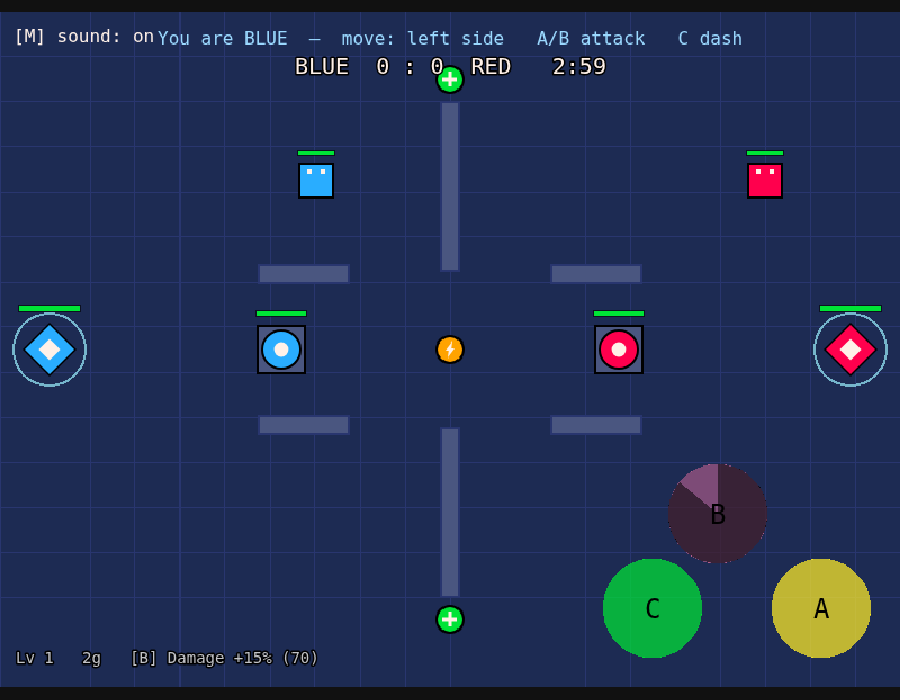
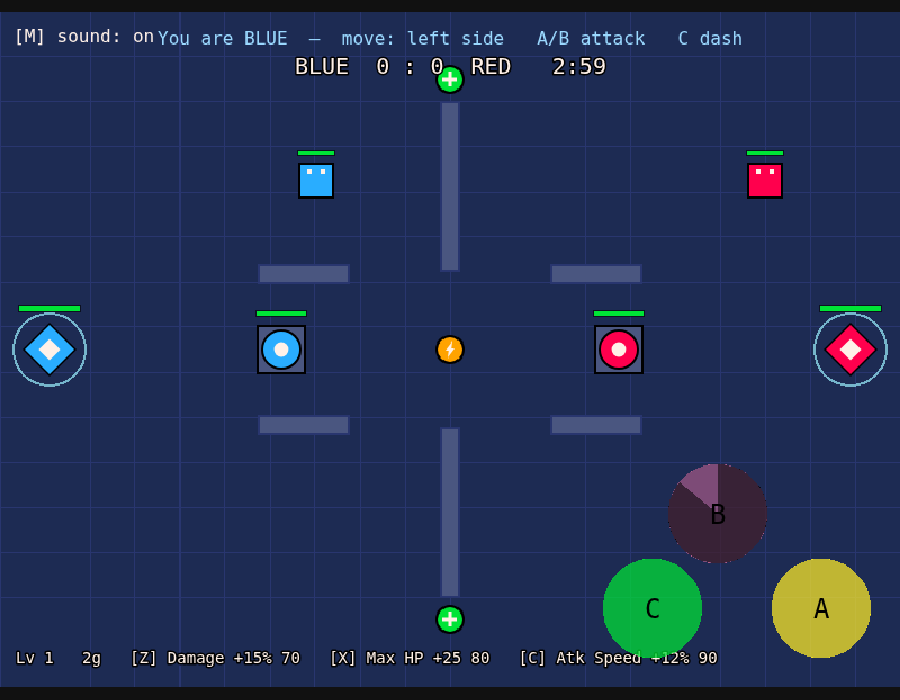
Shop with item choice + a new Attack Speed upgrade
The shop is now a real choice instead of a fixed cycle. Three items — Damage,
Max HP, and a new Attack Speed (cooldown reduction) — each on its own key
(Z/X/C), shown together in the bottom-left HUD; B still buys the next one for
convenience, and bots still auto-buy.

Server: tryBuy(player, itemId) buys a specific item (or the next when omitted);
a new bonusCdr stacks into effectiveCdMult, which scales the attack cooldown set
in tryAttack (floored at 0.4 so it stays sane). Shop grows to 3 items, cap 6.
NetClient.sendBuy(itemId) carries the choice.

Client: Z/X/C keys buy the matching item; updateShopHud lists all three with
keys + costs, or "upgrades maxed".

m27.progress gains buy-by-id and attack-speed checks (cdr applied, cooldown
shortened in a fired attack); m27.progress.render updated for the new HUD. The
legacy no-id cycle path still works (bots + the B key), so the rest of the suite
is unchanged. 42/42 test groups pass; live two-browser test passes; build OK.
README updated.

https://claude.ai/code/session_01MAXKRUpJFcKFAvV2b8xTXo

Changed region(s): [[0.1556, 0.93, 0.8089, 0.96], [0.0933, 0.93, 0.1244, 0.96], [0.0311, 0.93, 0.0622, 0.96]]

diff --git a/src/net/GameServer.js b/src/net/GameServer.js
@@ -267,6 +267,7 @@ export default class GameServer {
       buys: 0, // shop upgrades purchased
       bonusHp: 0, // from shop "Max HP" buys
       bonusDmg: 0, // from shop "Damage" buys (a multiplier addend)
+      bonusCdr: 0, // from shop "Atk Speed" buys (cooldown reduction)
     };
   }
 
@@ -285,6 +286,12 @@ export default class GameServer {
     return 1 + (this.levelOf(p) - 1) * PROGRESS.dmgPerLevel + p.bonusDmg;
   }
 
+  // A hero's cooldown multiplier from "Atk Speed" buys (floored so it can't go
+  // silly). 1 = normal; lower = faster attacks.
+  effectiveCdMult(p) {
+    return Math.max(0.4, 1 - p.bonusCdr);
+  }
+
   // Pay a hero for a last hit (minion | hero | tower).
   awardKill(player, kind) {
     const r = PROGRESS.reward[kind];
@@ -293,15 +300,20 @@ export default class GameServer {
     player.gold += r.gold;
   }
 
-  // Spend gold on the next shop upgrade (cycles through the list, capped).
-  tryBuy(player) {
+  // Spend gold on a shop upgrade. With `itemId`, buy that specific item;
+  // without one, buy the next in the list (the legacy "B" cycle, also used by
+  // bots). Capped at shopMaxStacks total.
+  tryBuy(player, itemId) {
     if (this.phase !== "playing") return;
     if (player.buys >= PROGRESS.shopMaxStacks) return;
-    const item = PROGRESS.shop[player.buys % PROGRESS.shop.length];
-    if (player.gold < item.cost) return;
+    const item = itemId
+      ? PROGRESS.shop.find((s) => s.id === itemId)
+      : PROGRESS.shop[player.buys % PROGRESS.shop.length];
+    if (!item || player.gold < item.cost) return;
     player.gold -= item.cost;
     player.bonusHp += item.hp || 0;
     player.bonusDmg += item.dmg || 0;
+    player.bonusCdr += item.cdr || 0;
     player.buys++;
   }
 
@@ -327,7 +339,7 @@ export default class GameServer {
     } else if (msg.t === "class") {
       this.setClass(p, msg.cls);
     } else if (msg.t === "buy") {
-      this.tryBuy(p);
+      this.tryBuy(p, msg.itemId);
     }
   }
 
@@ -364,7 +376,7 @@ export default class GameServer {
     if (this.phase !== "playing" || !player.alive) return;
     const spec = CLASSES[player.cls][kind]; // per-class attack stats
     if (this.timeMs < player.cd[kind]) return; // cooling down
-    player.cd[kind] = this.timeMs + spec.cd;
+    player.cd[kind] = this.timeMs + spec.cd * this.effectiveCdMult(player);
 
     // Aim at the nearest enemy target (a living enemy player OR the enemy base).
     const target = this.nearestTarget(player) || {

diff --git a/src/scenes/ArenaScene.js b/src/scenes/ArenaScene.js
@@ -218,8 +218,14 @@ export default class ArenaScene extends Phaser.Scene {
       });
     });
 
-    // B buys the next shop upgrade with gold.
+    // Z/X/C buy a specific shop upgrade; B buys the next one in the list.
     this.input.keyboard.on("keydown-B", () => this.net.sendBuy());
+    ["Z", "X", "C"].forEach((k, i) => {
+      this.input.keyboard.on(`keydown-${k}`, () => {
+        const item = PROGRESS.shop[i];
+        if (item) this.net.sendBuy(item.id);
+      });
+    });
 
     // Level / gold / shop line, bottom-left (clear of the action buttons).
     this.shopText = this.add
@@ -460,23 +466,28 @@ export default class ArenaScene extends Phaser.Scene {
     return `${Math.floor(sec / 60)}:${String(sec % 60).padStart(2, "0")}`;
   }
 
-  // Bottom-left progression line for the local hero: level, gold, and the next
-  // shop upgrade you can buy with B (brightened when you can afford it).
+  // Bottom-left progression line for the local hero: level, gold, and the shop
+  // (each item on its own key — Z/X/C), or "maxed" once fully upgraded.
   updateShopHud() {
+    const keys = ["Z", "X", "C"];
     const me = this.net.players.find((p) => p.id === this.net.localId);
     if (!me) {
       this.shopText.setText("");
       return;
     }
-    const buys = me.buys || 0;
     let line = `Lv ${me.level || 1}   ${me.gold || 0}g`;
-    let color = "#fff1e8";
-    if (this.net.phase === "playing" && buys < PROGRESS.shopMaxStacks) {
-      const item = PROGRESS.shop[buys % PROGRESS.shop.length];
-      line += `   [B] ${item.name} (${item.cost})`;
-      color = (me.gold || 0) >= item.cost ? "#ffec27" : "#c2c3c7";
+    if (this.net.phase === "playing") {
+      if ((me.buys || 0) >= PROGRESS.shopMaxStacks) {
+        line += "   upgrades maxed";
+      } else {
+        const shop = PROGRESS.shop
+          .slice(0, keys.length)
+          .map((it, i) => `[${keys[i]}] ${it.name} ${it.cost}`)
+          .join("   ");
+        line += `   ${shop}`;
+      }
     }
-    this.shopText.setText(line).setColor(color);
+    this.shopText.setText(line).setColor("#fff1e8");
   }
 
   // The corner kill feed: most recent knockouts on top, colored by the team

diff --git a/src/config.js b/src/config.js
@@ -203,13 +203,16 @@ export const PROGRESS = {
     hero: { xp: 65, gold: 50 },
     tower: { xp: 80, gold: 60 },
   },
-  // The shop: cycle through these with gold (press B). Bonuses are permanent
-  // and stack up to `shopMaxStacks` total buys.
+  // The shop: buy any of these with gold (keys Z / X / C, or B for the next
+  // one). Bonuses are permanent and stack up to `shopMaxStacks` total buys.
+  // `dmg` adds to the damage multiplier, `hp` to max HP, `cdr` cuts attack
+  // cooldowns (faster attacks).
   shop: [
     { id: "dmg", name: "Damage +15%", cost: 70, dmg: 0.15 },
     { id: "hp", name: "Max HP +25", cost: 80, hp: 25 },
+    { id: "atk", name: "Atk Speed +12%", cost: 90, cdr: 0.12 },
   ],
-  shopMaxStacks: 4,
+  shopMaxStacks: 6,
 };
 
 // --- Kill feed --------------------------------------------------------------

diff --git a/src/net/NetClient.js b/src/net/NetClient.js
@@ -63,9 +63,10 @@ export default class NetClient {
     this.conn.send({ t: "class", cls });
   }
 
-  // Spend gold on the next shop upgrade.
-  sendBuy() {
-    this.conn.send({ t: "buy" });
+  // Spend gold on a shop upgrade. Pass an item id to buy that one; omit it to
+  // buy the next in the list.
+  sendBuy(itemId) {
+    this.conn.send({ t: "buy", itemId });
   }
 
   on(event, cb) {

diff --git a/README.md b/README.md
@@ -71,7 +71,7 @@ To stop either server: click its Terminal and press `Ctrl + C`.
 | Dash | `L` or `Shift` | Tap the **C** button |
 | Mute / unmute sound | `M` | Tap **[M] sound** (top-left) |
 | Pick a hero class (in the lobby) | `1` / `2` / `3` | — |
-| Buy a shop upgrade (with gold) | `B` | — |
+| Buy shop upgrades (with gold) | `Z` / `X` / `C` (or `B` for next) | — |
 
 The first tap or key press dismisses the **"Tap to play"** start gate — this
 also unlocks sound (mobile browsers stay silent until you interact).
@@ -82,8 +82,9 @@ After a win, the match auto-resets in 5 seconds.
 
 **Level up & gold:** last-hitting minions, towers, and enemy heroes (plus a slow
 passive trickle) earns **XP** and **gold**. XP levels you up automatically — more
-max HP and attack damage — and gold buys permanent upgrades from a tiny shop
-(press `B`). Your level, gold, and next upgrade show in the bottom-left.
+max HP and attack damage — and gold buys permanent upgrades from a small shop:
+**Damage**, **Max HP**, and **Attack Speed** (keys `Z` / `X` / `C`). Your level,
+gold, and the shop show in the bottom-left.
 
 **Hero classes:** in the lobby, press `1`/`2`/`3` to pick your hero — **Scout**
 (fast-firing but fragile), **Soldier** (balanced all-rounder), or **Tank**
